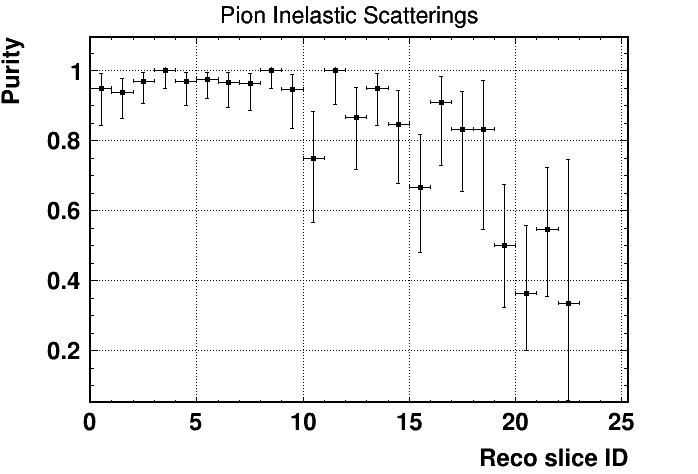
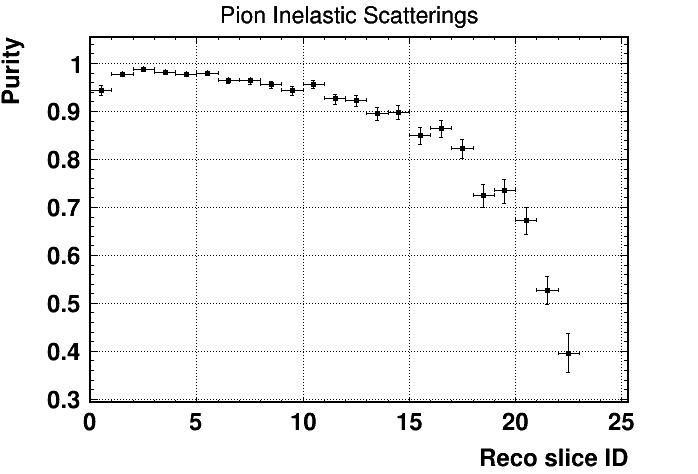
Add angle correction.

diff --git a/ThinSlice.h b/ThinSlice.h
@@ -15,6 +15,8 @@ class ThinSlice {
 
   TH1D *reco_incE[nthinslices];
   TH1D *true_incE[nthinslices];
+  TH1D *reco_AngCorr[nthinslices];
+  TH1D *true_AngCorr[nthinslices];
 
   TH1D *h_truesliceid_pion_all;
   TH1D *h_truesliceid_pion_uf;
